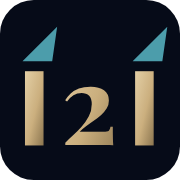
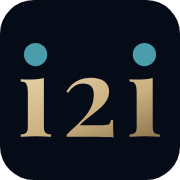
Replace i2i bars with serif lowercase i's and round teal dots
The old mark read as "121" at small sizes. The mark is now Playfair
glyph outlines (dotless i, 2, dotless i) with teal dots, stored as paths
so it no longer depends on webfont loading. Regenerated icons and share
images, and sized the header logo up to match.

Changed region(s): [[0.7222, 0.1389, 0.9444, 0.8333], [0.3611, 0.4167, 0.6389, 0.8056], [0.1111, 0.1389, 0.3333, 0.8333]]

diff --git a/src/components/brand/monogram.ts b/src/components/brand/monogram.ts
@@ -1,40 +1,41 @@
 /**
  * i2i monogram geometry, shared by the SVG logo, the loader, the hero glyph
- * field and the orbital scene texture. 64x64 box: two i stems with teal
- * triangle "dots", and a serif 2 between them, all sitting on y = 54.
+ * field and the orbital scene texture. 64x64 box, mark centred on (32, 32):
+ * two lowercase Playfair i's (dotless, weight 700) around a Playfair 2
+ * (weight 600), all on baseline y = 50.5, with round teal dots over the i's.
+ * Glyphs are stored as outlines so the mark never depends on webfont loading.
  */
 
 export const MONO_STEMS = [
-  { x: 6, y: 24, w: 7.5, h: 30 },
-  { x: 50.5, y: 24, w: 7.5, h: 30 },
+  "M13.78 27.27L13.78 46.41Q13.78 48.26 14.42 48.92Q15.05 49.58 16.59 49.58L16.59 50.50Q15.80 50.46 14.13 50.39Q12.46 50.32 10.74 50.32Q9.03 50.32 7.27 50.39Q5.51 50.46 4.63 50.50L4.63 49.58Q6.17 49.58 6.80 48.92Q7.44 48.26 7.44 46.41L7.44 32.55Q7.44 30.57 6.85 29.62Q6.25 28.68 4.63 28.68L4.63 27.75Q6.03 27.88 7.35 27.88Q9.20 27.88 10.81 27.73Q12.41 27.58 13.78 27.27Z",
+  "M56.78 27.27L56.78 46.41Q56.78 48.26 57.42 48.92Q58.05 49.58 59.59 49.58L59.59 50.50Q58.80 50.46 57.13 50.39Q55.46 50.32 53.74 50.32Q52.03 50.32 50.27 50.39Q48.51 50.46 47.63 50.50L47.63 49.58Q49.17 49.58 49.80 48.92Q50.44 48.26 50.44 46.41L50.44 32.55Q50.44 30.57 49.85 29.62Q49.25 28.68 47.63 28.68L47.63 27.75Q49.03 27.88 50.35 27.88Q52.20 27.88 53.81 27.73Q55.41 27.58 56.78 27.27Z",
 ] as const;
 
-export const MONO_DOTS = ["M5 20 L19 6 L17 20 Z", "M49.5 20 L63.5 6 L61.5 20 Z"] as const;
+export const MONO_TWO = "M32.42 27.14Q35.72 27.14 37.63 28.59Q39.55 30.04 39.55 32.72Q39.55 34.44 38.69 35.91Q37.83 37.39 36.47 38.69Q35.10 39.98 33.54 41.19Q31.98 42.40 30.50 43.55Q29.03 44.69 27.97 45.88L37.35 45.88Q39.15 45.88 39.63 45.42Q40.12 44.96 40.29 43.81L41.13 43.81Q41.13 46.54 41.17 48.04Q41.22 49.53 41.31 50.72Q40.91 50.63 39.85 50.59Q38.80 50.54 37.43 50.52Q36.07 50.50 34.75 50.50L22.78 50.50L22.78 49.66Q24.06 48.34 25.88 46.74Q27.71 45.13 29.45 43.20Q31.19 41.26 32.35 38.97Q33.52 36.68 33.52 34Q33.52 31.62 32.44 30.52Q31.36 29.42 29.29 29.42Q27.49 29.42 26.02 30.37Q24.54 31.32 23.40 33.12L22.69 32.64Q23.53 31.18 24.78 29.93Q26.04 28.68 27.91 27.91Q29.78 27.14 32.42 27.14Z";
 
-export const MONO_TWO = { x: 32, y: 54, size: 44 } as const;
+/** Every gold part of the mark as one path. */
+export const MONO_GOLD = [MONO_TWO, ...MONO_STEMS].join(" ");
 
-/** Horizontal centre of the mark (it spans x 5..63.5). */
-export const MONO_CX = 34.25;
+export const MONO_DOTS = [
+  { cx: 10.5, cy: 18, r: 4.6 },
+  { cx: 53.5, cy: 18, r: 4.6 },
+] as const;
+
+/** Centre of the mark (it spans x 4.6..59.6, y 13.4..50.5). */
+export const MONO_CX = 32;
+export const MONO_CY = 32;
 
 /** Draws the mark into a 2D canvas at scale k (1 unit = k px). */
-export function drawMonogram(
-  g: CanvasRenderingContext2D,
-  k: number,
-  fill: string | CanvasGradient,
-  dotFill: string,
-  serifFamily: string,
-) {
+export function drawMonogram(g: CanvasRenderingContext2D, k: number, fill: string | CanvasGradient, dotFill: string) {
+  g.save();
+  g.scale(k, k);
   g.fillStyle = fill;
-  g.font = `600 ${MONO_TWO.size * k}px ${serifFamily}`;
-  g.textBaseline = "alphabetic";
-  g.textAlign = "center";
-  g.fillText("2", MONO_TWO.x * k, MONO_TWO.y * k);
-  for (const s of MONO_STEMS) g.fillRect(s.x * k, s.y * k, s.w * k, s.h * k);
+  g.fill(new Path2D(MONO_GOLD));
   g.fillStyle = dotFill;
   for (const d of MONO_DOTS) {
-    g.save();
-    g.scale(k, k);
-    g.fill(new Path2D(d));
-    g.restore();
+    g.beginPath();
+    g.arc(d.cx, d.cy, d.r, 0, Math.PI * 2);
+    g.fill();
   }
+  g.restore();
 }

diff --git a/src/components/chrome/Loader.tsx b/src/components/chrome/Loader.tsx
@@ -3,7 +3,7 @@
 import { useEffect, useRef, useState } from "react";
 import { gsap } from "gsap";
 import { brand } from "@/content/site";
-import { MONO_DOTS, MONO_STEMS, MONO_TWO } from "@/components/brand/monogram";
+import { MONO_DOTS, MONO_GOLD, MONO_STEMS, MONO_TWO } from "@/components/brand/monogram";
 import { prefersReducedMotion } from "@/lib/scroll";
 
 /**
@@ -45,10 +45,9 @@ function setLenis(running: boolean) {
   }
 }
 
-// The 2 drawn as a single hairline (viewBox 0 0 64 64), echoing the i2i monogram.
-const TWO_PATH = "M22.5 31 C22.5 25.5 26.5 22.5 32 22.5 C37.5 22.5 41 26 41 30.5 C41 36.5 35 40.5 22 53.5 H42";
-const STEM_PATH = MONO_STEMS.map((s) => `M${s.x} ${s.y} H${s.x + s.w} V${s.y + s.h} H${s.x} Z`).join(" ");
-const DOT_PATH = MONO_DOTS.join(" ");
+// Glyph outlines traced as hairlines before the fill fades in (viewBox 0 0 64 64).
+const STEM_PATH = MONO_STEMS.join(" ");
+const RIGHT_DOT = MONO_DOTS[1];
 
 export default function Loader() {
   const [visible, setVisible] = useState(true);
@@ -116,7 +115,7 @@ export default function Loader() {
           )
           .fromTo(
             q("[data-flash]"),
-            { scale: 0.2, opacity: 0, svgOrigin: "52.5 14" },
+            { scale: 0.2, opacity: 0, svgOrigin: `${RIGHT_DOT.cx} ${RIGHT_DOT.cy}` },
             { scale: 1.4, opacity: 0.85, duration: 0.16, ease: "power2.out" },
             1.34,
           )
@@ -199,26 +198,13 @@ export default function Loader() {
 
           {/* filled monogram, revealed after the hairlines draw */}
           <g data-fill style={{ opacity: 0 }}>
-            <text
-              x={MONO_TWO.x}
-              y={MONO_TWO.y}
-              textAnchor="middle"
-              fontFamily="var(--font-playfair), Georgia, serif"
-              fontSize={MONO_TWO.size}
-              fontWeight="600"
-              fill="url(#si-loader-gold)"
-            >
-              2
-            </text>
-            {MONO_STEMS.map((s) => (
-              <rect key={s.x} x={s.x} y={s.y} width={s.w} height={s.h} fill="url(#si-loader-gold)" />
-            ))}
+            <path d={MONO_GOLD} fill="url(#si-loader-gold)" />
           </g>
 
           {/* hairlines */}
           <path
             data-draw="s"
-            d={TWO_PATH}
+            d={MONO_TWO}
             pathLength={1}
             fill="none"
             stroke="#E3CFA6"
@@ -236,8 +222,12 @@ export default function Loader() {
             style={{ strokeDasharray: 1, strokeDashoffset: 1 }}
           />
 
-          <circle data-flash cx="57" cy="13" r="12" fill="url(#si-loader-flash)" style={{ opacity: 0 }} />
-          <path data-dot d={DOT_PATH} fill="#4C9DAB" style={{ opacity: 0 }} />
+          <circle data-flash cx={RIGHT_DOT.cx} cy={RIGHT_DOT.cy} r="12" fill="url(#si-loader-flash)" style={{ opacity: 0 }} />
+          <g data-dot style={{ opacity: 0 }}>
+            {MONO_DOTS.map((d) => (
+              <circle key={d.cx} cx={d.cx} cy={d.cy} r={d.r} fill="#4C9DAB" />
+            ))}
+          </g>
         </svg>
 
         <p

diff --git a/src/components/hero/layout.ts b/src/components/hero/layout.ts
@@ -1,6 +1,6 @@
 /** Target layouts the glyph field morphs into: the i2i monogram and ordered lines of "text". */
 
-import { MONO_CX, drawMonogram } from "@/components/brand/monogram";
+import { MONO_CX, MONO_CY, drawMonogram } from "@/components/brand/monogram";
 
 export type Rand = () => number;
 
@@ -17,10 +17,10 @@ export function mulberry32(seed: number): Rand {
 
 /**
  * Samples points inside the i2i monogram (shared geometry in brand/monogram.ts:
- * serif 2, two i stems, teal triangles). Returns coordinates normalised so the mark
- * is ~1 unit tall and centred on the origin, plus a teal flag per point.
+ * Playfair i2i, teal dots). Returns coordinates normalised so the mark is ~0.85
+ * units tall and centred on the origin, plus a teal flag per point.
  */
-export function sampleMonogram(count: number, rand: Rand, serifFamily: string) {
+export function sampleMonogram(count: number, rand: Rand) {
   const k = 5;
   const size = 64 * k;
   const canvas = document.createElement("canvas");
@@ -31,7 +31,7 @@ export function sampleMonogram(count: number, rand: Rand, serifFamily: string) {
   const teal = new Uint8Array(count);
   if (!ctx) return { pts, teal };
 
-  drawMonogram(ctx, k, "#f00", "#0f0", serifFamily);
+  drawMonogram(ctx, k, "#f00", "#0f0");
 
   const data = ctx.getImageData(0, 0, size, size).data;
   const gold: number[] = [];
@@ -45,14 +45,14 @@ export function sampleMonogram(count: number, rand: Rand, serifFamily: string) {
   }
 
   for (let i = 0; i < count; i++) {
-    const useTeal = tri.length > 0 && rand() < 0.07;
+    const useTeal = tri.length > 0 && rand() < 0.12;
     const pool = useTeal || gold.length === 0 ? tri : gold;
     if (pool.length === 0) break;
     const j = Math.floor(rand() * (pool.length / 2)) * 2;
     const jx = (rand() - 0.5) * 2;
     const jy = (rand() - 0.5) * 2;
-    pts[i * 2] = ((pool[j] + jx) / k - MONO_CX) / 48;
-    pts[i * 2 + 1] = -((pool[j + 1] + jy) / k - 30) / 48;
+    pts[i * 2] = ((pool[j] + jx) / k - MONO_CX) / 44;
+    pts[i * 2 + 1] = -((pool[j + 1] + jy) / k - MONO_CY) / 44;
     teal[i] = useTeal ? 1 : 0;
   }
   return { pts, teal };

diff --git a/src/components/brand/Logo.tsx b/src/components/brand/Logo.tsx
@@ -1,4 +1,4 @@
-import { MONO_DOTS, MONO_STEMS, MONO_TWO } from "./monogram";
+import { MONO_DOTS, MONO_GOLD } from "./monogram";
 
 type Props = {
   className?: string;
@@ -9,8 +9,8 @@ type Props = {
 };
 
 /**
- * i2i monogram: two serif i stems with the teal triangle "dots" from the brand
- * board, around a serif 2. Geometry lives in ./monogram.ts.
+ * i2i monogram: two lowercase serif i's with teal dots around a serif 2.
+ * Geometry lives in ./monogram.ts.
  */
 export default function Logo({ className = "", tone = "gold", wordmark = false }: Props) {
   const fill = tone === "gold" ? "url(#i2i-gold)" : tone === "navy" ? "#101B2D" : "currentColor";
@@ -25,22 +25,9 @@ export default function Logo({ className = "", tone = "gold", wordmark = false }
             <stop offset="100%" stopColor="#8C7650" />
           </linearGradient>
         </defs>
-        <text
-          x={MONO_TWO.x}
-          y={MONO_TWO.y}
-          textAnchor="middle"
-          fontFamily="var(--font-playfair), Georgia, serif"
-          fontSize={MONO_TWO.size}
-          fontWeight="600"
-          fill={fill}
-        >
-          2
-        </text>
-        {MONO_STEMS.map((s) => (
-          <rect key={s.x} x={s.x} y={s.y} width={s.w} height={s.h} fill={fill} />
-        ))}
+        <path d={MONO_GOLD} fill={fill} />
         {MONO_DOTS.map((d) => (
-          <path key={d} d={d} fill={dot} />
+          <circle key={d.cx} cx={d.cx} cy={d.cy} r={d.r} fill={dot} />
         ))}
       </svg>
       {wordmark && (

diff --git a/src/components/hero/field.ts b/src/components/hero/field.ts
@@ -32,12 +32,12 @@ export function layoutFor(aspect: number, slotW: number) {
   };
 }
 
-export function buildField(count: number, mobile: boolean, aspect: number, serif: string): Omit<Built, "atlas"> {
+export function buildField(count: number, mobile: boolean, aspect: number): Omit<Built, "atlas"> {
   const rand = mulberry32(20240611);
   const ext = layoutFor(aspect, 1);
   const page = buildLineLayout(mobile, rand, ext.lineExtent.x / ext.lineExtent.y);
   const slots = Math.min(page.count, Math.floor(count * 0.6));
-  const mono = sampleMonogram(count, rand, serif);
+  const mono = sampleMonogram(count, rand);
   const AR = ARABIC_GLYPHS.length;
   const LA = LATIN_GLYPHS.length;
 

diff --git a/src/components/structure/OrbitalScene.tsx b/src/components/structure/OrbitalScene.tsx
@@ -63,13 +63,10 @@ function makeMonogramTexture() {
     grad.addColorStop(0, "#FFF3DA");
     grad.addColorStop(0.55, "#E3CFA6");
     grad.addColorStop(1, "#CBAF7E");
-    const family = getComputedStyle(document.body).getPropertyValue("--font-playfair").trim() || "Georgia";
-    drawMonogram(g, k, grad, "#7CC4CF", `${family}, Georgia, serif`);
+    drawMonogram(g, k, grad, "#7CC4CF");
     tex.needsUpdate = true;
   };
   draw();
-  // redraw once webfonts are ready so the 2 is Playfair, not the fallback
-  document.fonts?.ready.then(draw).catch(() => undefined);
   return tex;
 }
 

diff --git a/src/components/structure/Structure.tsx b/src/components/structure/Structure.tsx
@@ -129,7 +129,7 @@ export default function Structure() {
                     <li>
                       <span className="font-mono text-[10px] uppercase tracking-[0.24em] text-mist/60">Subsidiary</span>
                       <p className="mt-1 flex items-center gap-3 text-paper">
-                        <Logo className="h-5" />
+                        <Logo className="h-6" />
                         {brand.name}
                       </p>
                       <ol className="ml-[5px] mt-4 space-y-1 border-l border-gold/25 pl-4">

diff --git a/src/components/hero/GlyphField.tsx b/src/components/hero/GlyphField.tsx
@@ -115,7 +115,7 @@ export default function GlyphField({ mobile, reduced, introDone, onReady }: Prop
       if (cancelled) return;
       const { texture } = buildGlyphAtlas(arabic, serif);
       const count = mobile ? 2200 : 6500;
-      const field = buildField(count, mobile, window.innerWidth / window.innerHeight, serif);
+      const field = buildField(count, mobile, window.innerWidth / window.innerHeight);
       result = { ...field, atlas: texture };
       if (cancelled) {
         field.points.dispose();

diff --git a/src/components/chrome/Footer.tsx b/src/components/chrome/Footer.tsx
@@ -28,7 +28,7 @@ export default function Footer() {
       <div className="mx-auto max-w-7xl px-6 pb-10 pt-20 md:px-10 md:pt-28">
         <div className="grid gap-14 md:grid-cols-12">
           <div className="md:col-span-4">
-            <Logo wordmark className="h-9" />
+            <Logo wordmark className="h-11" />
             <p className="mt-6 max-w-xs font-serif text-2xl leading-snug text-paper">
               {brand.positioning.replace(/\.$/, "")}
               <span className="text-gold">.</span>

diff --git a/src/components/chrome/Nav.tsx b/src/components/chrome/Nav.tsx
@@ -169,7 +169,7 @@ export default function Nav() {
             aria-label={`${brand.name}, back to top`}
             className="-m-2 rounded-sm p-2 focus-visible:outline focus-visible:outline-1 focus-visible:outline-offset-2 focus-visible:outline-gold"
           >
-            <Logo wordmark className="h-9" />
+            <Logo wordmark className="h-11" />
           </a>
 
           <div className="hidden items-center gap-10 md:flex">
